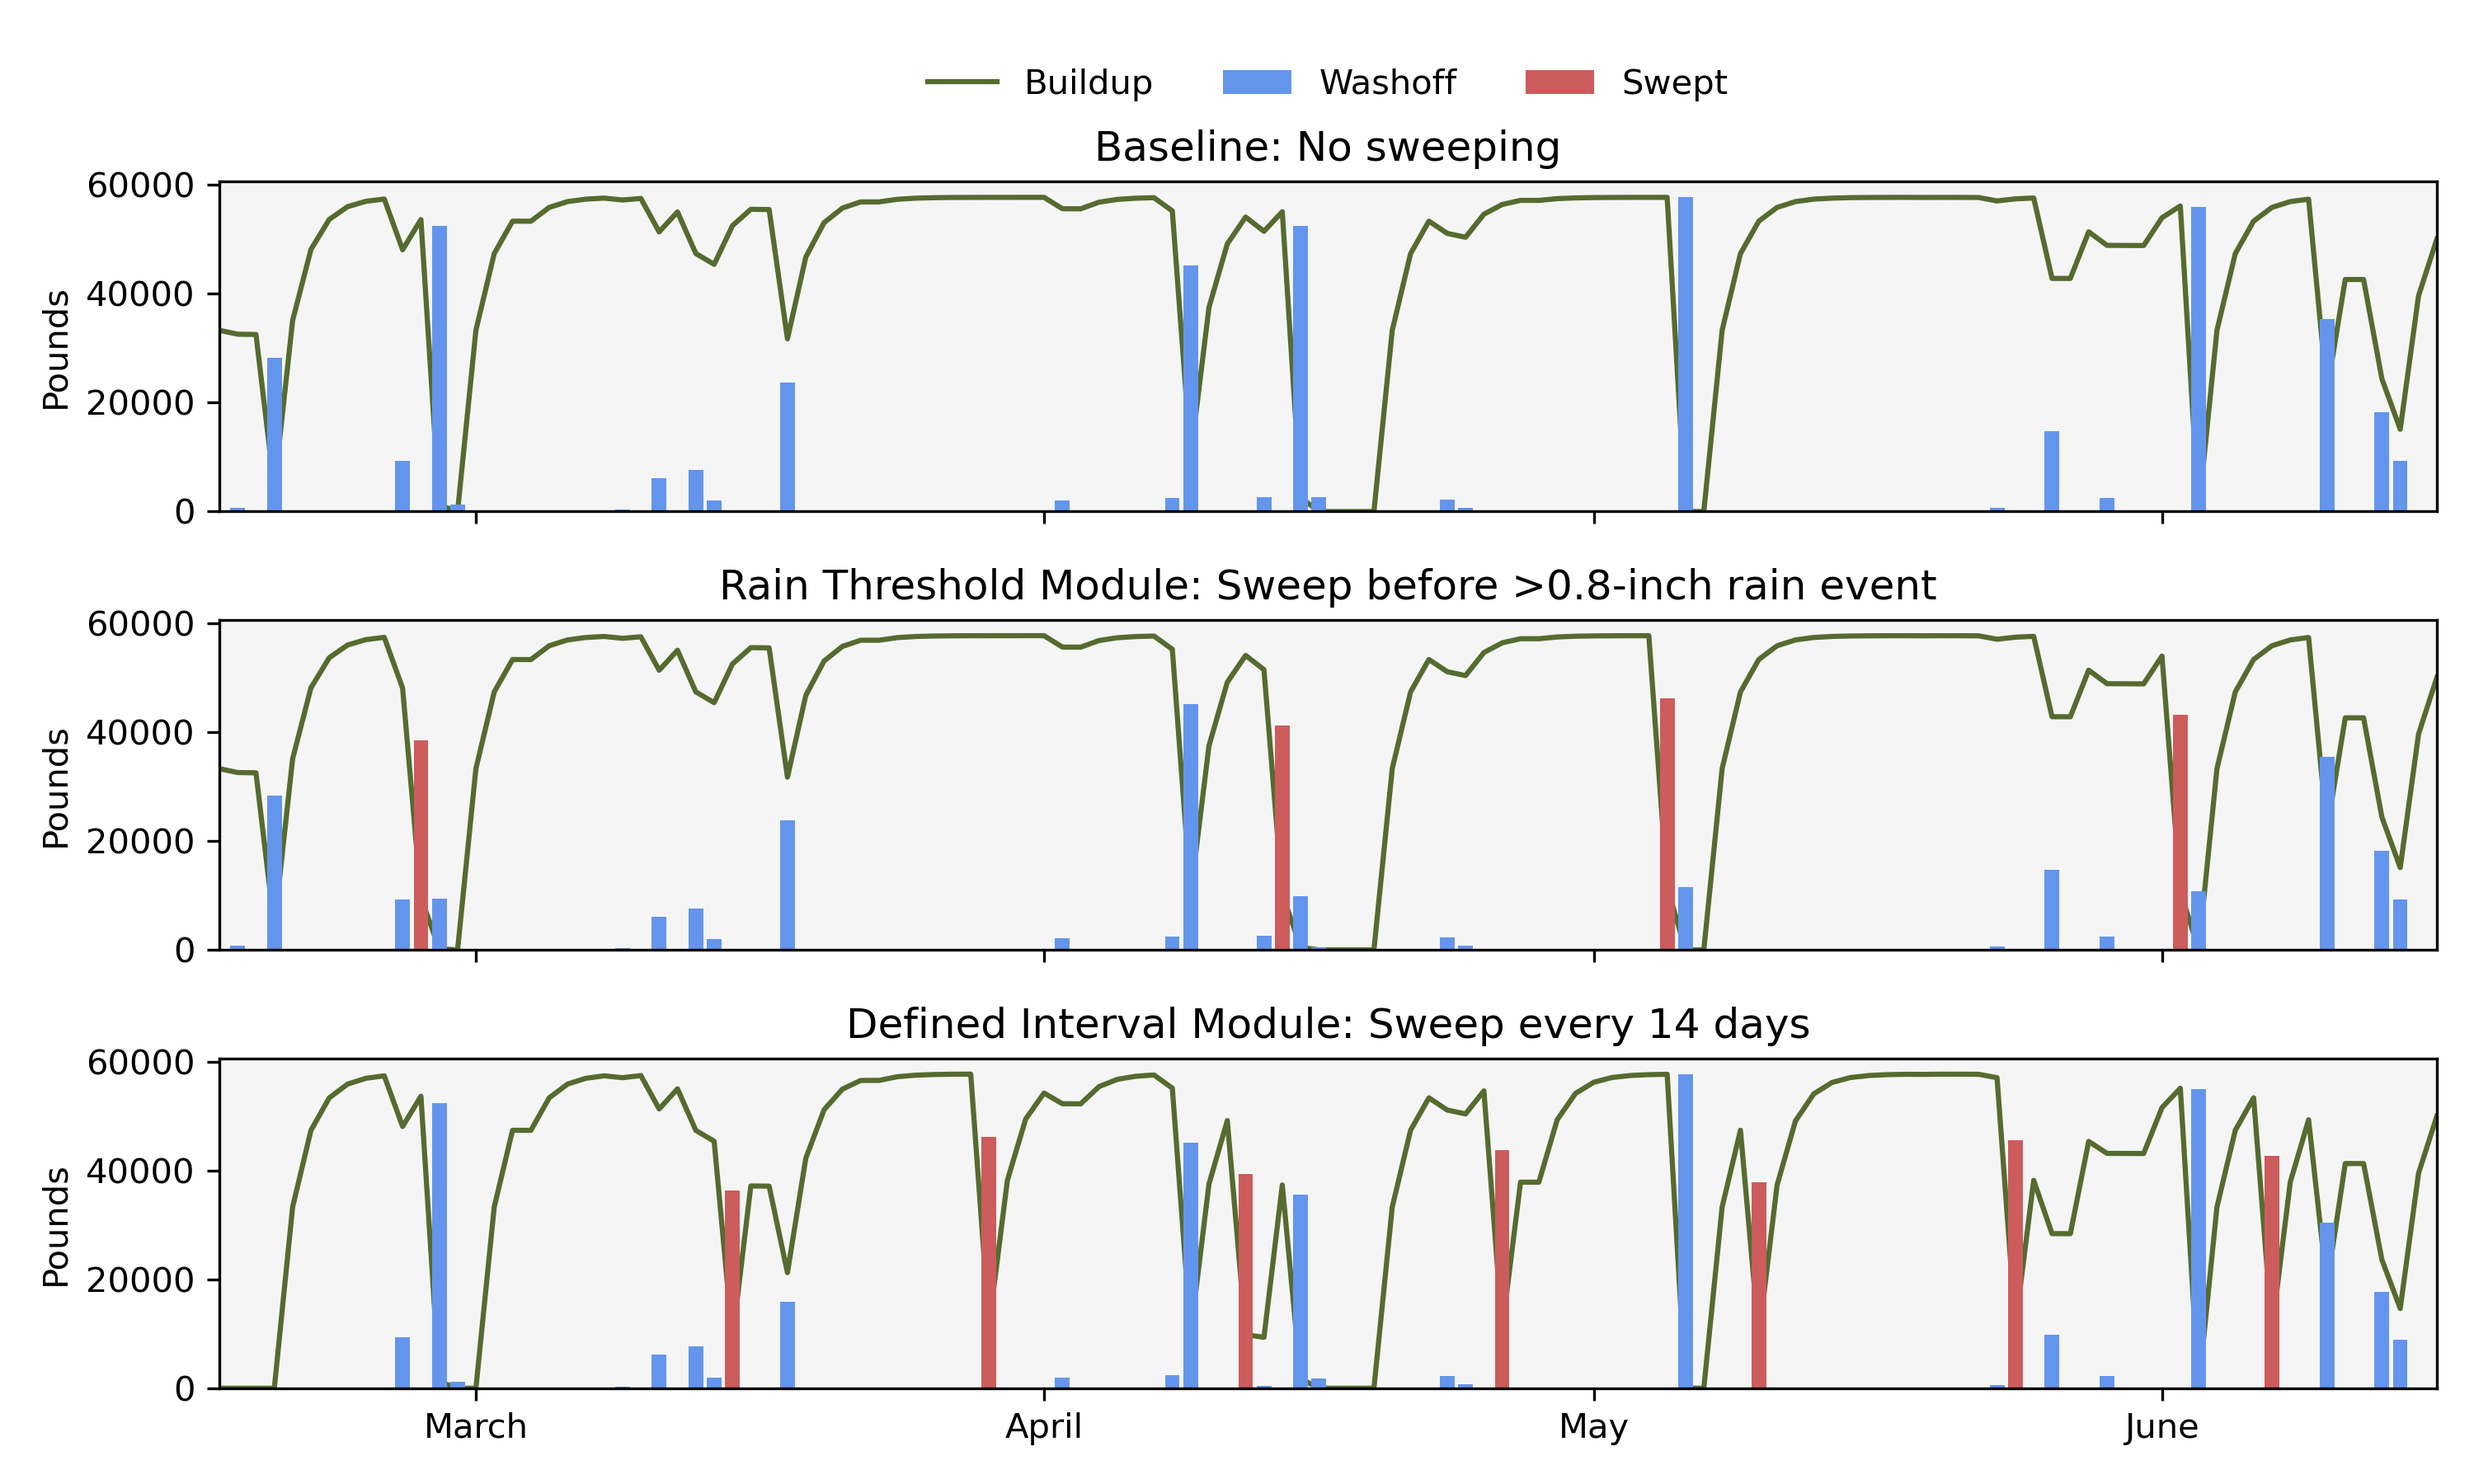
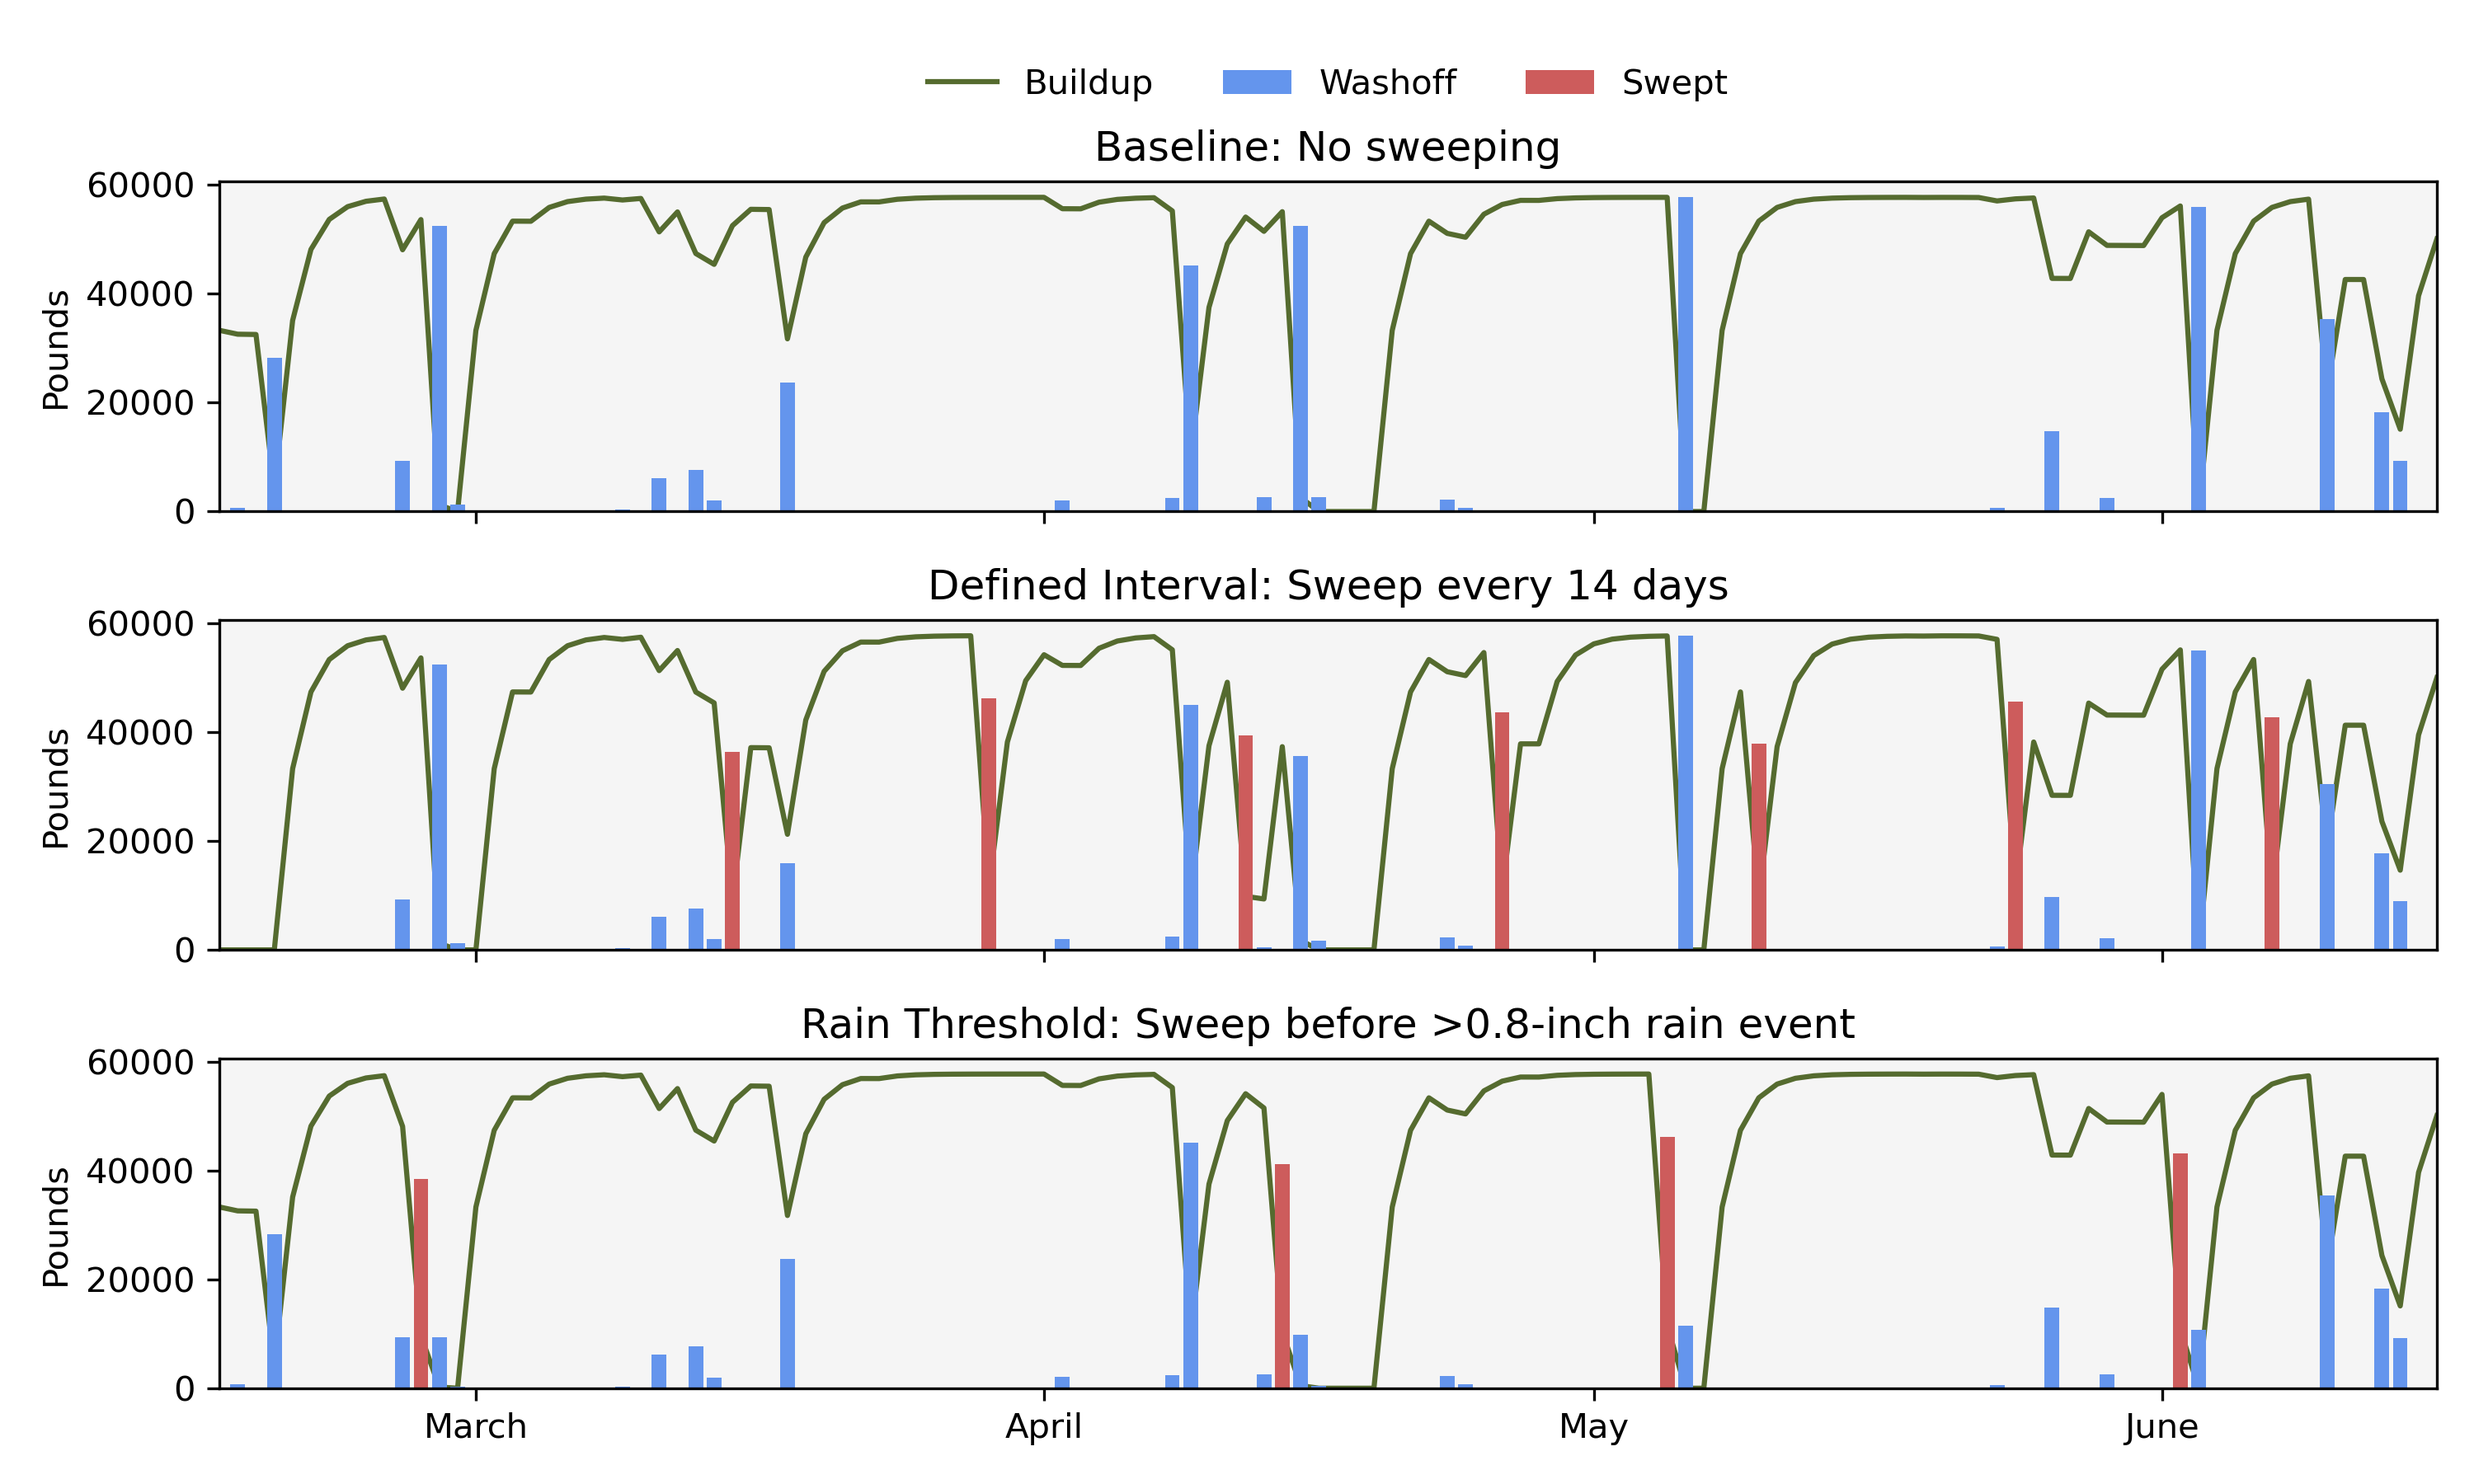
SWPT changes

diff --git a/SWPT/Simulate/Simulate_SWPT.py b/SWPT/Simulate/Simulate_SWPT.py
@@ -64,8 +64,8 @@ print("\nDefined Interval Module Summary:")
 pprint(df3_summary)
 
 
-dfs = [df1, df2, df3]
-titles = ['Baseline: No sweeping', 'Rain Threshold Module: Sweep before >0.8-inch rain event', 'Defined Interval Module: Sweep every 14 days']
+dfs = [df1, df3, df2]
+titles = ['Baseline: No sweeping', 'Defined Interval: Sweep every 14 days', 'Rain Threshold: Sweep before >0.8-inch rain event']
 
 # PLOTTING!
 fig, ax = plt.subplots(nrows=3, sharex=True, sharey=True, figsize=(10, 6))
